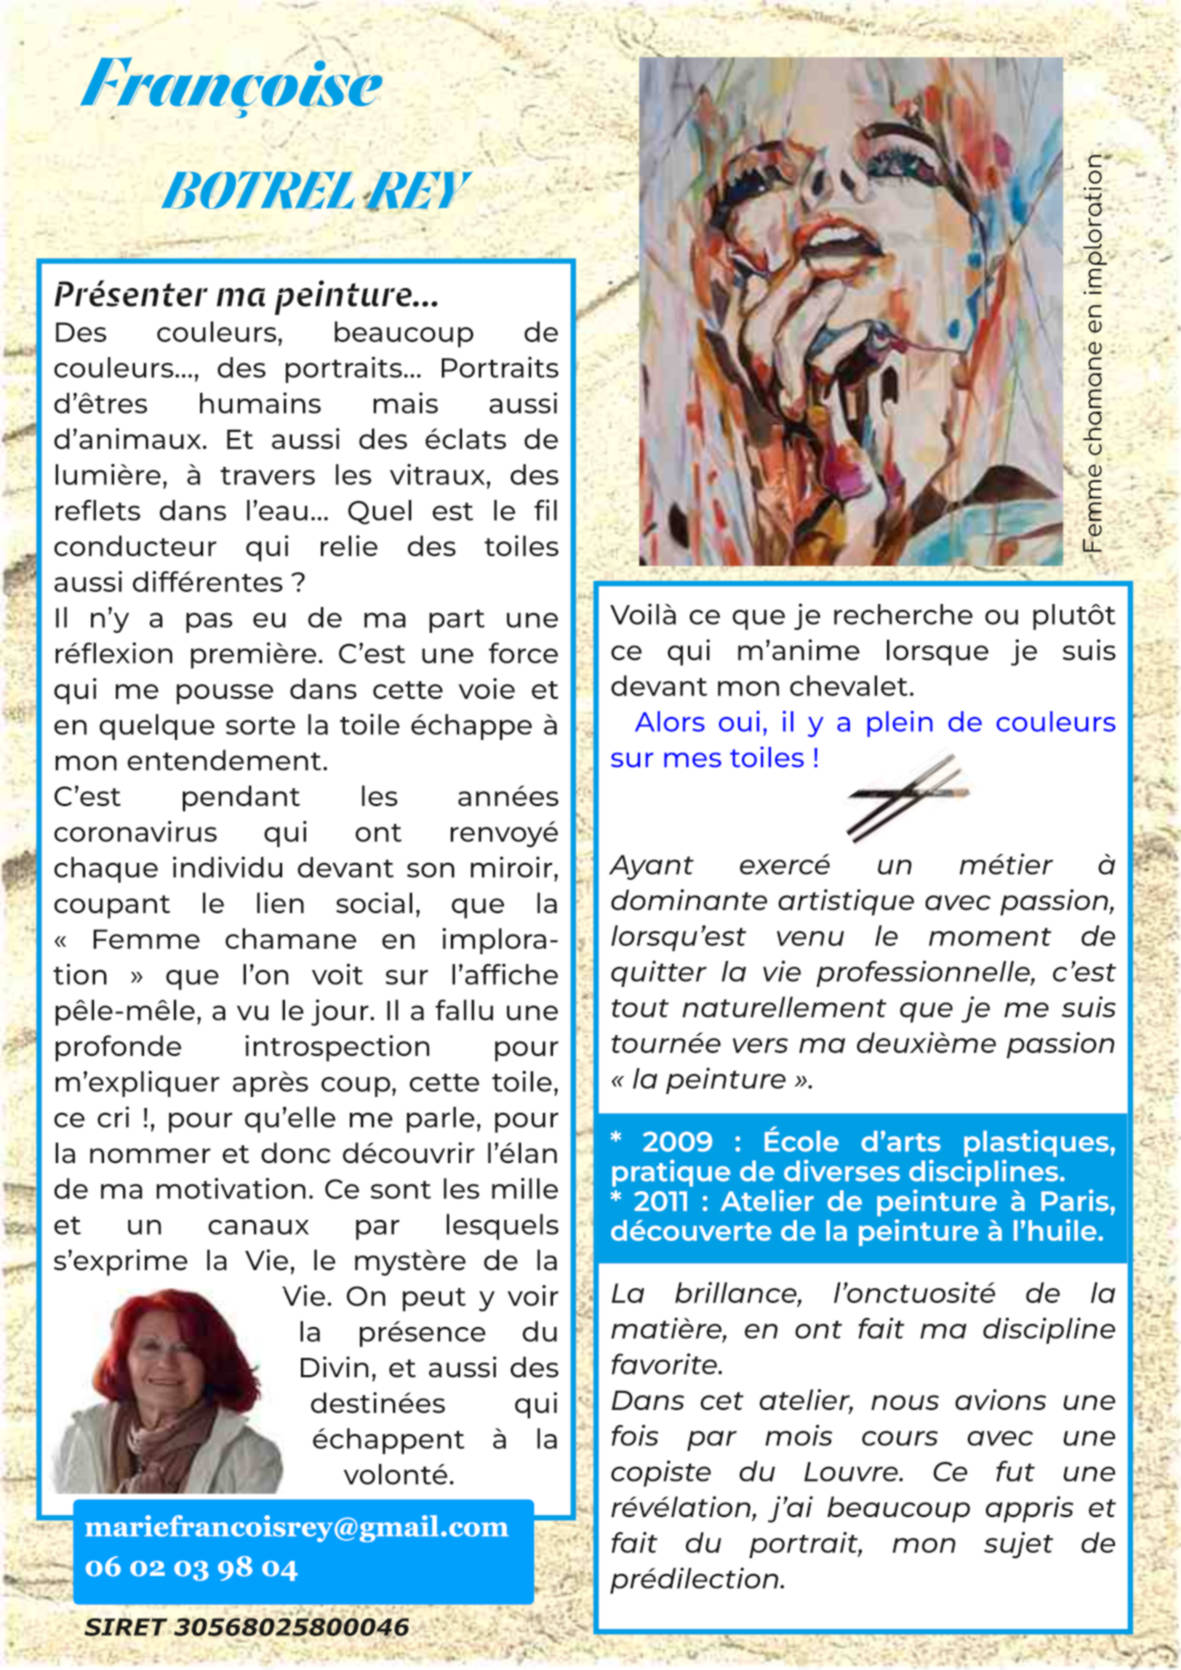
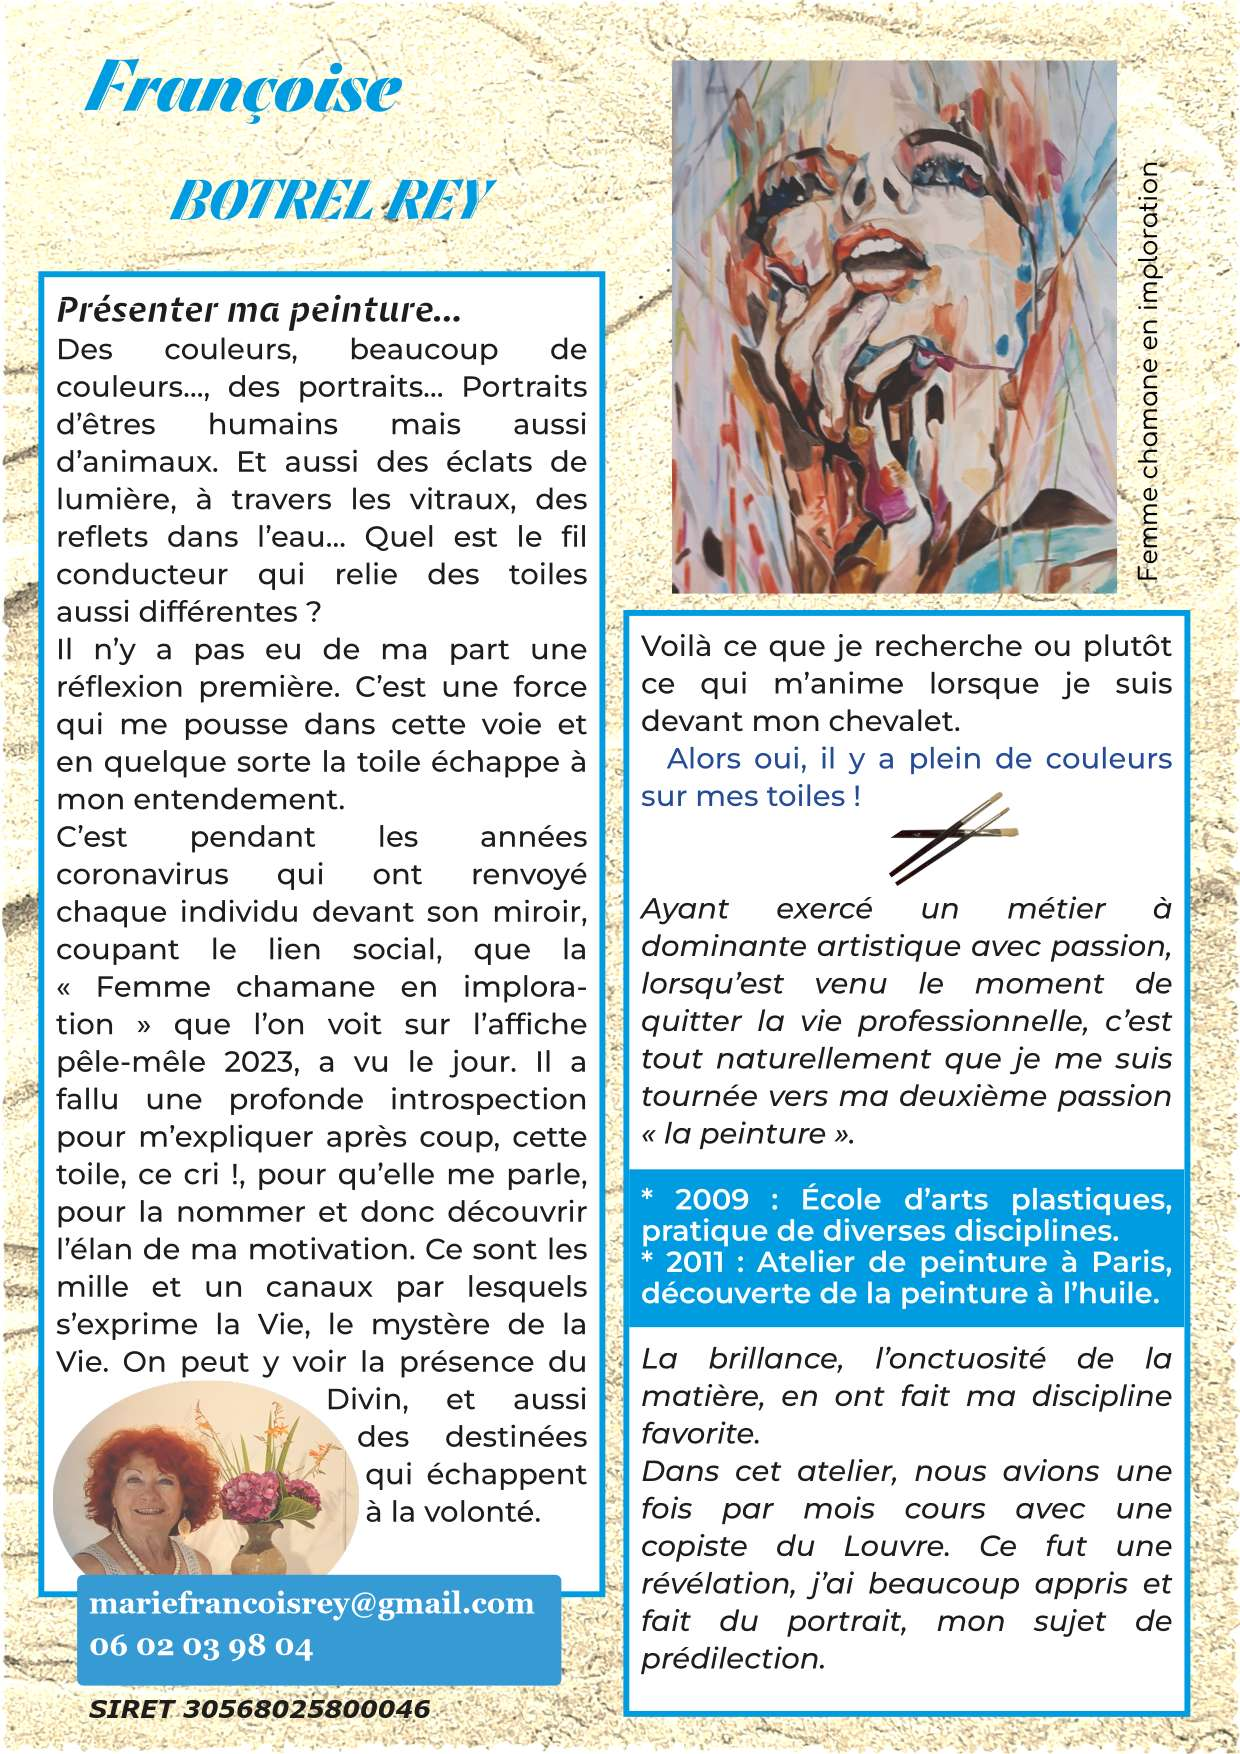
modif du 23 aout 2025

diff --git a/content/affiches/2025/_index.md b/content/affiches/2025/_index.md
@@ -2,30 +2,31 @@
 title: "Affiches 2025"
 date: 2025-06-04T17:16:06+02:00
 weight: 90
-albumthumb: "/affiches/2025/affiche-brocart-2025.jpg"
+albumthumb: "/affiches/2025/Cabellou_2025_A5.jpg"
 draft: false
 ## Optional additional meta info for resources list
 #  alt: Image alternative and screen-reader text
 #  phototitle: A title for the photo
 #  description: A sub-title or description for the photo
+# nombre pair, affiche à gauche, impair, affiche à droite.
 resources:
-- src: "/affiches/2025/affiche-brocart-2025.jpg"
-  weight: 60
-  phototitle: "Affiche de Gouesn'Art"
 - src: "/affiches/2025/Cabellou_2025_A5.jpg"
-  weight: 65
+  weight: 60
 - src: "/affiches/2025/Ste_Marine_2025_A5.jpg"
-  weight: 70
+  weight: 65
 - src: "/affiches/2025/Ste_Marine_2025_TV.jpg"
+  weight: 70
+- src: "/affiches/2025/affiche-brocart-2025.jpg"
   weight: 75
+  phototitle: "Affiche de Gouesn'Art"
 - src: "/affiches/2025/Francoise_Botrel_Rey_Etuve_A5_2025.jpg"
-  weight: 77
+  weight: 80
 - src: "/affiches/2025/capcavalarts_2025_A5.jpg"
-  weight: 84
+  weight: 85
 - src: "/affiches/2025/gouesnach_2025.jpg"
-  weight: 95
+  weight: 90
 - src: "/affiches/2025/chateauneuf_2025.jpg"
-  weight: 100
+  weight: 95
 - src: "/affiches/2025/melgven_2025.jpg"
-  weight: 105
+  weight: 100
 ---

diff --git a/content/pele_mele/_index.md b/content/pele_mele/_index.md
@@ -8,6 +8,7 @@ draft: false
 #  alt: Image alternative and screen-reader text
 #  phototitle: A title for the photo
 #  description: A sub-title or description for the photo
+# nombre pair, affiche à gauche, impair, affiche à droite.
 resources:
 - src: "/pele_mele/pele_mele_2025.jpg"
   weight: 20
@@ -15,4 +16,7 @@ resources:
 - src: "/pele_mele/pele_mele_2024.jpg"
   weight: 25
   phototitle: "Affiche pêle-mêle 2024"
+- src: "/pele_mele/pele_mele_2023.jpg"
+  weight: 30
+  phototitle: "Affiche pêle-mêle 2023"
 ---

diff --git a/content/affiches/2024/_index.md b/content/affiches/2024/_index.md
@@ -8,6 +8,7 @@ draft: false
 #  alt: Image alternative and screen-reader text
 #  phototitle: A title for the photo
 #  description: A sub-title or description for the photo
+# nombre pair, affiche à gauche, impair, affiche à droite.
 resources:
 - src: "/affiches/2024/coop.jpg"
   weight: 10

diff --git a/content/affiches/_index.md b/content/affiches/_index.md
@@ -2,7 +2,7 @@
 title: ""
 date: 2025-04-22T02:00:00+01:00
 weight: 30
-albumthumb: "/affiches/2025/affiche-brocart-2025.jpg"
+albumthumb: "/affiches/2025/Cabellou_2025_A5.jpg"
 draft: false
 ## Optional additional meta info for resources list
 #  alt: Image alternative and screen-reader text
